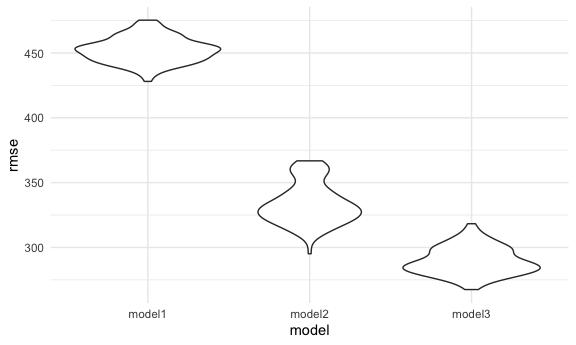
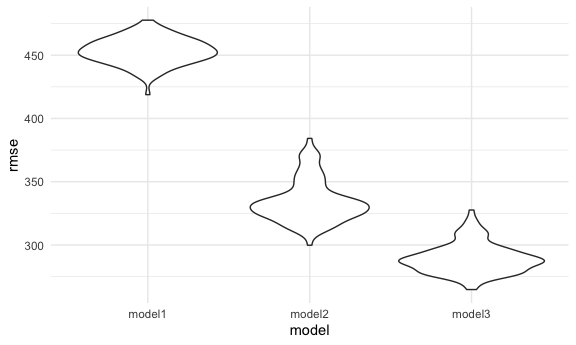
final commit

diff --git a/p8105_hw6_hlz2108.md b/p8105_hw6_hlz2108.md
@@ -390,6 +390,8 @@ weather_df =
     ## file min/max dates: 1869-01-01 / 2020-12-31
 
 ``` r
+set.seed(2222)
+
 boot_sample = function(df) {
 
   sample_frac(df, replace = TRUE)
@@ -439,7 +441,7 @@ boot_results %>%
 The distribution of R squared appears to follow a normal distribution,
 centered around \~0.912.
 
-The 95% CI of adjusted R square is (0.8938124, 0.926944).
+The 95% CI of adjusted R square is (0.8932379, 0.927231).
 
 ### Log Function
 
@@ -488,4 +490,4 @@ second_bootstrap %>%
 The log function plot also appears to follow a normal distribution,
 centered around \~2.015.
 
-The 95% CI of adjusted R square is (1.9652987, 2.0578683).
+The 95% CI of adjusted R square is (1.9650487, 2.059875).
